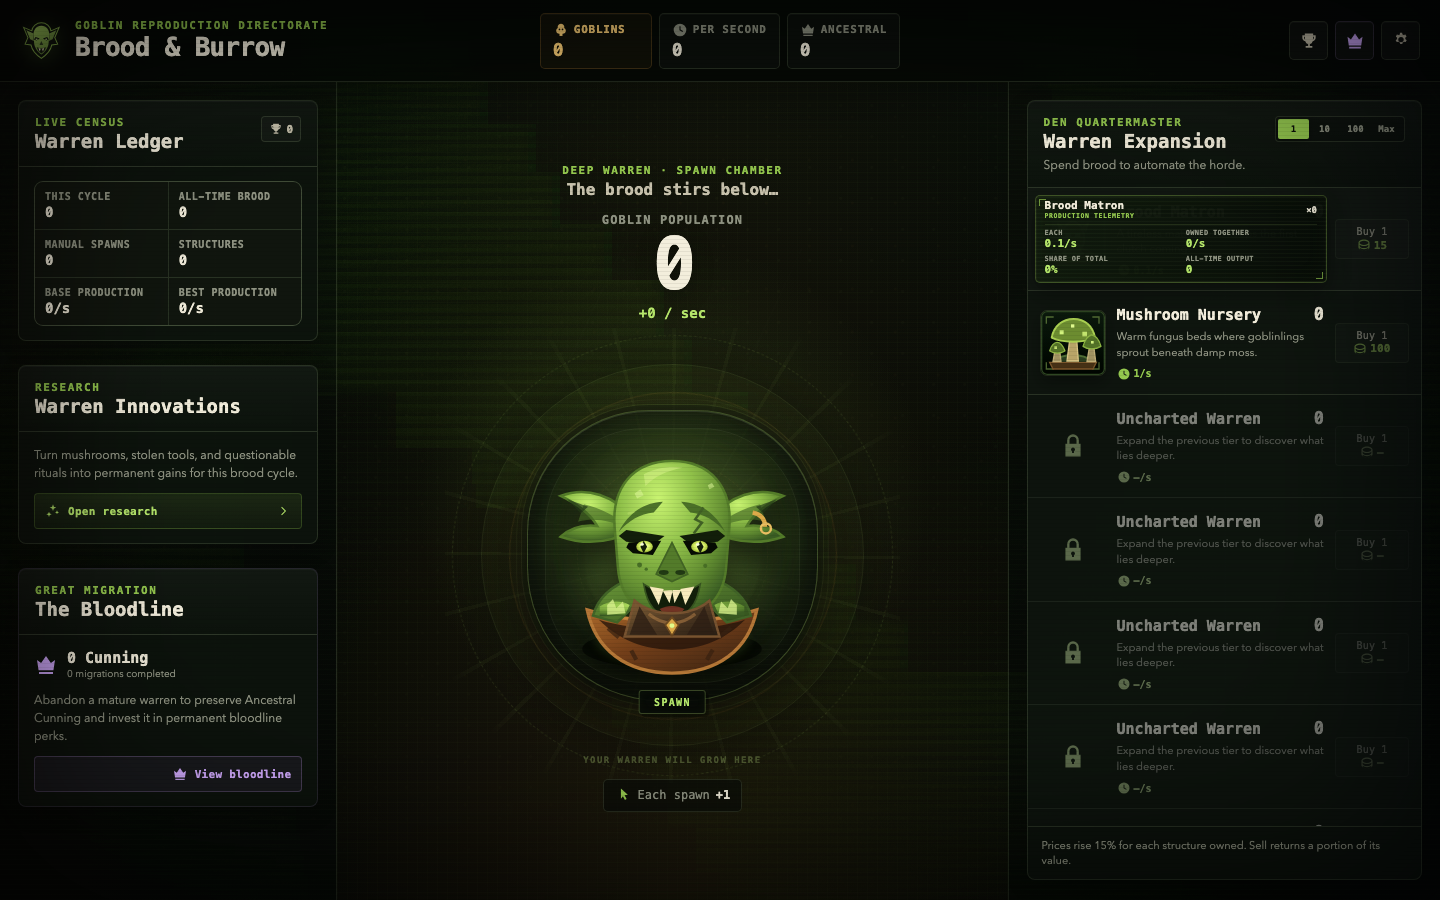
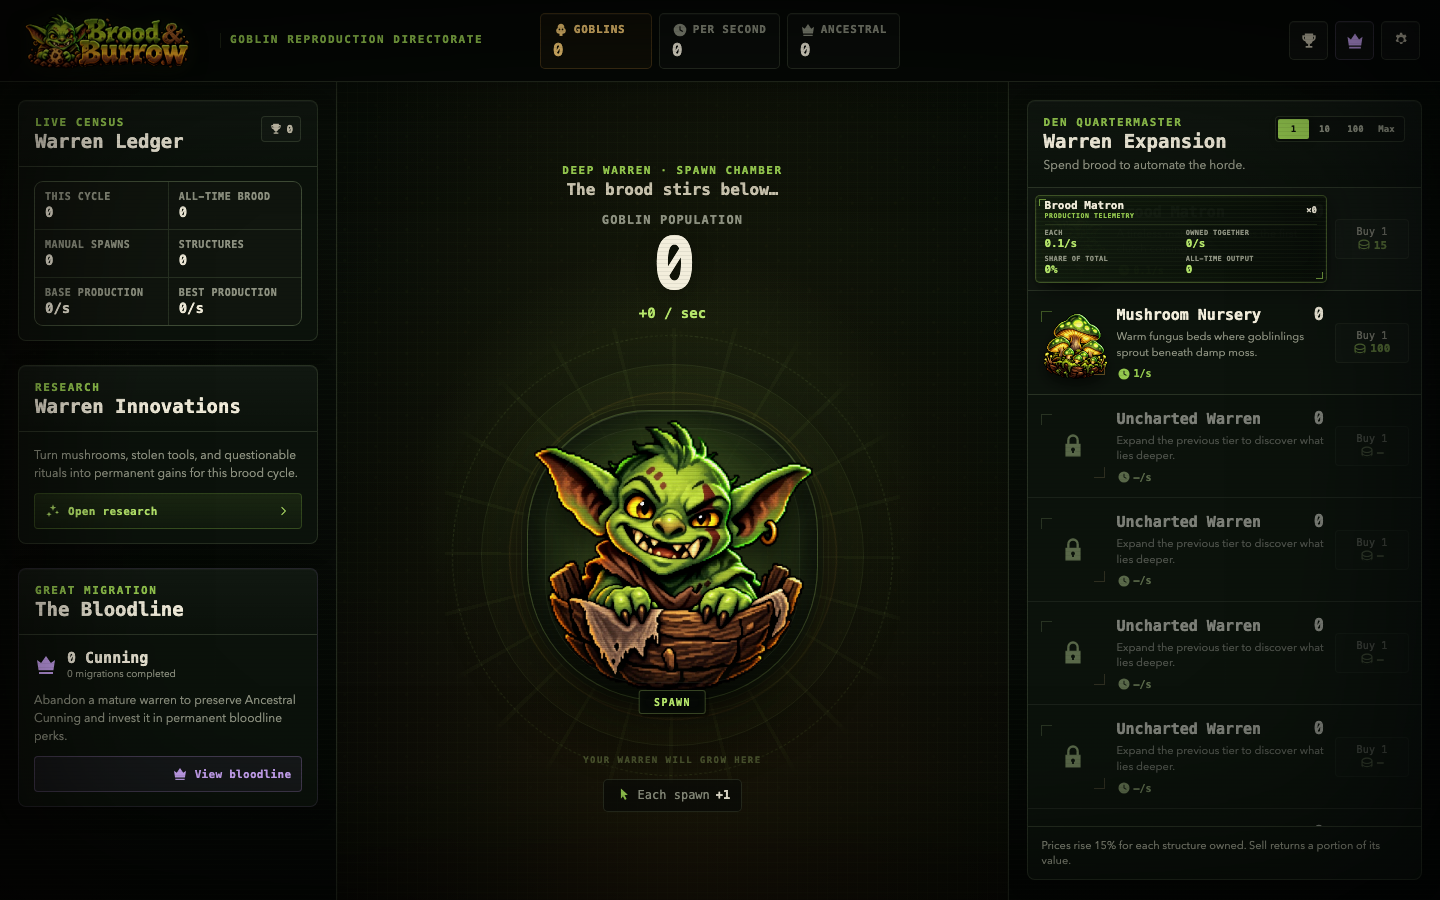
feat: integrate painted game artwork

Changed region(s): [[0.375, 0.4667, 0.5625, 0.7778], [0.0, 0.0, 0.3438, 0.0933], [0.7188, 0.3422, 0.7812, 0.4356]]

diff --git a/src/styles/components.css b/src/styles/components.css
@@ -9,8 +9,22 @@
   padding: 10px 20px;
 }
 
-.resource-header__brand { display: flex; align-items: center; gap: 12px; min-width: 0; }
-.resource-header__mark { width: 43px; height: 43px; filter: drop-shadow(0 3px 10px rgba(140, 199, 79, 0.2)); }
+.resource-header__brand { display: flex; align-items: center; gap: 10px; min-width: 0; }
+.resource-header__logo {
+  display: block;
+  width: min(190px, 72%);
+  max-height: 58px;
+  flex: 0 1 auto;
+  object-fit: contain;
+  object-position: left center;
+  filter: saturate(.88) contrast(1.12) brightness(.98) drop-shadow(0 5px 9px rgba(0,0,0,.5)) drop-shadow(0 0 8px rgba(142, 198, 75, .08));
+  user-select: none;
+}
+.resource-header__brand-copy {
+  min-width: 0;
+  padding-left: 9px;
+  border-left: 1px solid rgba(184, 221, 118, .14);
+}
 .resource-header__eyebrow,
 .panel-heading__eyebrow,
 .side-panel__eyebrow,
@@ -209,17 +223,14 @@
   opacity: .92;
   animation: structure-settle 420ms steps(7, end) both;
   animation-delay: var(--token-delay);
-  filter: drop-shadow(0 6px 7px rgba(0,0,0,.62)) saturate(1.12) contrast(1.1);
+  filter: drop-shadow(0 6px 7px rgba(0,0,0,.68)) saturate(.82) contrast(1.16) brightness(.94);
 }
 .warren-field__token img {
   display: block;
   width: 100%;
   height: 100%;
-  border: 1px solid rgba(194, 223, 145, .2);
-  border-radius: 4px;
-  object-fit: cover;
-  background: #0b100a;
-  box-shadow: inset 0 0 0 1px rgba(0,0,0,.36), 0 0 14px rgba(124, 174, 62, .075), 3px 3px 0 rgba(0,0,0,.26);
+  object-fit: contain;
+  transform: scale(1.08);
 }
 .warren-field__count {
   position: absolute;
@@ -301,10 +312,10 @@
 .spawn-target__goblin {
   position: relative;
   z-index: 1;
-  width: 92%;
-  height: 92%;
+  width: 104%;
+  height: 104%;
   object-fit: contain;
-  filter: drop-shadow(0 17px 12px rgba(0,0,0,.5)) saturate(1.06) contrast(1.04);
+  filter: drop-shadow(0 18px 13px rgba(0,0,0,.58)) saturate(.84) contrast(1.14) brightness(.97) drop-shadow(0 0 12px rgba(141, 197, 74, .07));
   pointer-events: none;
   user-select: none;
   transition: transform 180ms var(--ease-spring), filter 180ms ease;
@@ -331,9 +342,9 @@
 .spawn-target--busy .spawn-target__glow { opacity: 1; filter: blur(11px) brightness(1.12); }
 .spawn-target--overrun .spawn-target__glow { opacity: 1; filter: blur(12px) brightness(1.25); }
 .spawn-target:hover:not(:disabled) { transform: translateY(-2px) scale(1.035); box-shadow: 0 29px 60px rgba(0,0,0,.52), 0 0 48px rgba(130, 179, 70, .13), 0 0 0 5px rgba(12, 18, 10, .55), 0 0 0 6px rgba(190, 230, 121, .13), inset 0 1px 0 rgba(225, 246, 191, .15), inset 0 -22px 42px rgba(0,0,0,.32); }
-.spawn-target:hover:not(:disabled) .spawn-target__goblin { transform: translateY(-4px) scale(1.035); filter: drop-shadow(0 20px 15px rgba(0,0,0,.5)) brightness(1.07) saturate(1.1); }
+.spawn-target:hover:not(:disabled) .spawn-target__goblin { transform: translateY(-4px) scale(1.045); filter: drop-shadow(0 22px 15px rgba(0,0,0,.58)) brightness(1.04) saturate(.9) contrast(1.16) drop-shadow(0 0 14px rgba(152, 211, 78, .1)); }
 .spawn-target:active:not(:disabled) { transform: scale(.955); }
-.spawn-target:active:not(:disabled) .spawn-target__goblin { transform: translateY(4px) scale(.94); filter: drop-shadow(0 10px 8px rgba(0,0,0,.45)) brightness(1.12); }
+.spawn-target:active:not(:disabled) .spawn-target__goblin { transform: translateY(4px) scale(.94); filter: drop-shadow(0 10px 8px rgba(0,0,0,.48)) brightness(1.06) saturate(.9) contrast(1.14); }
 .spawn-target:disabled { opacity: .55; filter: grayscale(.7); }
 
 .spawn-pit__click-power {
@@ -406,8 +417,36 @@
 .shop-card:hover { background: rgba(255,255,255,.022); }
 .shop-card--affordable { background: linear-gradient(90deg, rgba(120, 167, 61, .05), transparent 55%); }
 .shop-card--locked { opacity: .5; filter: saturate(.45); }
-.shop-card__art { display: grid; width: 66px; height: 66px; place-items: center; align-self: center; overflow: visible; color: var(--moss); }
-.shop-card__art img { width: 66px; height: 66px; object-fit: contain; border: 1px solid rgba(192, 220, 145, .14); border-radius: 7px; filter: drop-shadow(0 7px 7px rgba(0,0,0,.35)) saturate(1.08) contrast(1.08); }
+.shop-card__art {
+  position: relative;
+  display: grid;
+  width: 66px;
+  height: 66px;
+  place-items: center;
+  align-self: center;
+  overflow: visible;
+  color: var(--moss);
+}
+.shop-card__art::before,
+.shop-card__art::after {
+  position: absolute;
+  z-index: 2;
+  width: 11px;
+  height: 11px;
+  content: "";
+  opacity: .38;
+  pointer-events: none;
+}
+.shop-card__art::before { top: 1px; left: 1px; border-top: 1px solid var(--moss); border-left: 1px solid var(--moss); }
+.shop-card__art::after { right: 1px; bottom: 1px; border-right: 1px solid var(--ember); border-bottom: 1px solid var(--ember); }
+.shop-card__art img {
+  width: 70px;
+  height: 70px;
+  max-width: none;
+  object-fit: contain;
+  transform: scale(1.04);
+  filter: drop-shadow(0 8px 7px rgba(0,0,0,.52)) saturate(.82) contrast(1.16) brightness(.95);
+}
 .shop-card__body { min-width: 0; }
 .shop-card__topline { display: flex; align-items: baseline; justify-content: space-between; gap: 8px; }
 .shop-card h3 { margin: 0; overflow: hidden; font-family: var(--font-display); font-size: 15px; line-height: 1.25; text-overflow: ellipsis; white-space: nowrap; }
@@ -565,15 +604,17 @@
 }
 
 @media (max-width: 680px) {
-  .resource-header { gap: 9px; padding: 9px 12px 11px; }
-  .resource-header__mark { width: 38px; height: 38px; }
-  .resource-header__eyebrow { display: none; }
+  .resource-header { grid-template-columns: minmax(0, 1fr) auto; gap: 9px; padding: 9px 12px 11px; }
+  .resource-header__logo { width: min(178px, 100%); max-height: 52px; }
+  .resource-header__brand-copy { display: none; }
   .resource-header__actions { gap: 5px; }
   .icon-button { width: 36px; height: 36px; border-radius: 9px; }
-  .resource-header__stats { gap: 5px; overflow-x: auto; padding-bottom: 1px; }
+  .resource-header__stats { width: 100%; min-width: 0; max-width: calc(100vw - 24px); gap: 5px; overflow-x: auto; padding-bottom: 1px; }
   .resource-stat { min-width: 100px; padding: 7px 8px; }
   .resource-stat dd { font-size: 15px; }
   .spawn-pit { padding: 18px 14px 25px; }
+  .spawn-pit__heading { max-width: min(92vw, 360px); }
+  .spawn-pit__kicker { font-size: 9px; line-height: 1.35; white-space: normal; }
   .spawn-pit__counter-value { font-size: clamp(40px, 13vw, 58px); }
   .spawn-pit__arena { width: min(380px, 90vw); }
   .omen-event { top: 18%; right: 8px; }
@@ -586,6 +627,8 @@
 }
 
 @media (max-width: 430px) {
+  .resource-header__logo { width: 148px; }
+  .icon-button { width: 32px; height: 32px; }
   .shop-card { grid-template-columns: 54px minmax(0, 1fr); }
   .shop-card__art, .shop-card__art img { width: 54px; height: 54px; }
   .shop-card__actions { grid-column: 1 / -1; flex-direction: row; }

diff --git a/src/utils/assets.ts b/src/utils/assets.ts
@@ -1,4 +1,44 @@
+import brandLogo from '../images/brand-logo.webp';
+import bogHatchery from '../images/building-bog-hatchery.webp';
+import broodMatron from '../images/building-brood-matron.webp';
+import goblinGate from '../images/building-goblin-gate.webp';
+import moonsporeCavern from '../images/building-moonspore-cavern.webp';
+import mushroomNursery from '../images/building-mushroom-nursery.webp';
+import realityBurrow from '../images/building-reality-burrow.webp';
+import scrapIncubator from '../images/building-scrap-incubator.webp';
+import shamanCircle from '../images/building-shaman-circle.webp';
+import warCamp from '../images/building-war-camp.webp';
+import warrenDen from '../images/building-warren-den.webp';
+import goblinSpawn from '../images/goblin-spawn.webp';
+
 export function publicAsset(path: string): string {
   const cleanPath = path.replace(/^\/+/, '');
   return `${import.meta.env.BASE_URL}${cleanPath}`;
+}
+
+const BUILDING_IMAGE_ART: Readonly<Record<string, string>> = {
+  brood_matron: broodMatron,
+  mushroom_nursery: mushroomNursery,
+  warren_den: warrenDen,
+  bog_hatchery: bogHatchery,
+  scrap_incubator: scrapIncubator,
+  shaman_circle: shamanCircle,
+  war_camp: warCamp,
+  moonspore_cavern: moonsporeCavern,
+  goblin_gate: goblinGate,
+  reality_burrow: realityBurrow,
+};
+
+export const gameArt = {
+  brandLogo,
+  goblinSpawn,
+} as const;
+
+/**
+ * Prefer the bespoke transparent raster set where one exists, while keeping the
+ * original SVG library as a deterministic fallback for art that has not yet
+ * received a matching painted asset.
+ */
+export function buildingArtAsset(id: string): string {
+  return BUILDING_IMAGE_ART[id] ?? publicAsset(`assets/building-${id.replace(/_/g, '-')}.svg`);
 }

diff --git a/src/components/SpawnPit.tsx b/src/components/SpawnPit.tsx
@@ -1,5 +1,5 @@
 import type { ReactNode } from 'react';
-import { publicAsset } from '../utils/assets';
+import { gameArt } from '../utils/assets';
 import { useI18n } from '../i18n';
 import { Icon } from './Icon';
 
@@ -43,7 +43,7 @@ export function SpawnPit({ totalLabel, perSecondLabel, clickPowerLabel, onSpawn,
         <span className="spawn-pit__embers" aria-hidden="true" />
         <button className={`spawn-target spawn-target--${activityLevel}`} type="button" onClick={onSpawn} disabled={disabled} aria-label={t('spawn.aria', { power: clickPowerLabel })}>
           <span className="spawn-target__glow spawn-target__glow--core" aria-hidden="true" />
-          <img className="spawn-target__goblin" src={publicAsset('assets/goblin-spawn.svg')} alt="" draggable={false} />
+          <img className="spawn-target__goblin" src={gameArt.goblinSpawn} alt="" draggable={false} />
           <span className="spawn-target__cta">{t('spawn.button')}</span>
         </button>
         {children}

diff --git a/src/components/ResourceHeader.tsx b/src/components/ResourceHeader.tsx
@@ -1,4 +1,4 @@
-import { publicAsset } from '../utils/assets';
+import { gameArt } from '../utils/assets';
 import { useI18n } from '../i18n';
 import { Icon, type IconName } from './Icon';
 
@@ -25,10 +25,10 @@ export function ResourceHeader({ title, subtitle, stats, onOpenAchievements, onO
   return (
     <div className="resource-header">
       <div className="resource-header__brand">
-        <img src={publicAsset('assets/goblin-broodmark.svg')} alt="" className="resource-header__mark" />
-        <div>
+        <img src={gameArt.brandLogo} alt="" className="resource-header__logo" draggable={false} />
+        <div className="resource-header__brand-copy">
           <div className="resource-header__eyebrow">{subtitle ?? t('brand.subtitle')}</div>
-          <h1 className="resource-header__title">{title ?? 'Brood & Burrow'}</h1>
+          <h1 className="sr-only">{title ?? 'Brood & Burrow'}</h1>
         </div>
       </div>
 

diff --git a/src/App.tsx b/src/App.tsx
@@ -30,7 +30,7 @@ import {
   I18nProvider, detectPreferredLanguage, formatCompact, getLanguageMeta, isLanguageCode, localizedName, localizedPerkDescription, translate,
   type LanguageCode, type TranslationKey,
 } from './i18n';
-import { publicAsset } from './utils/assets';
+import { buildingArtAsset } from './utils/assets';
 import { formatDateTime, formatDuration, formatInteger, formatNumber } from './utils/format';
 import './App.css';
 
@@ -75,7 +75,7 @@ function loadInitialState(): { state: GameState; offline: number; warning: Warni
   }
 }
 
-function buildingArtPath(id: BuildingId): string { return publicAsset(`assets/building-${id.replace(/_/g, '-')}.svg`); }
+function buildingArtPath(id: BuildingId): string { return buildingArtAsset(id); }
 
 function App() {
   const [boot] = useState(loadInitialState);
